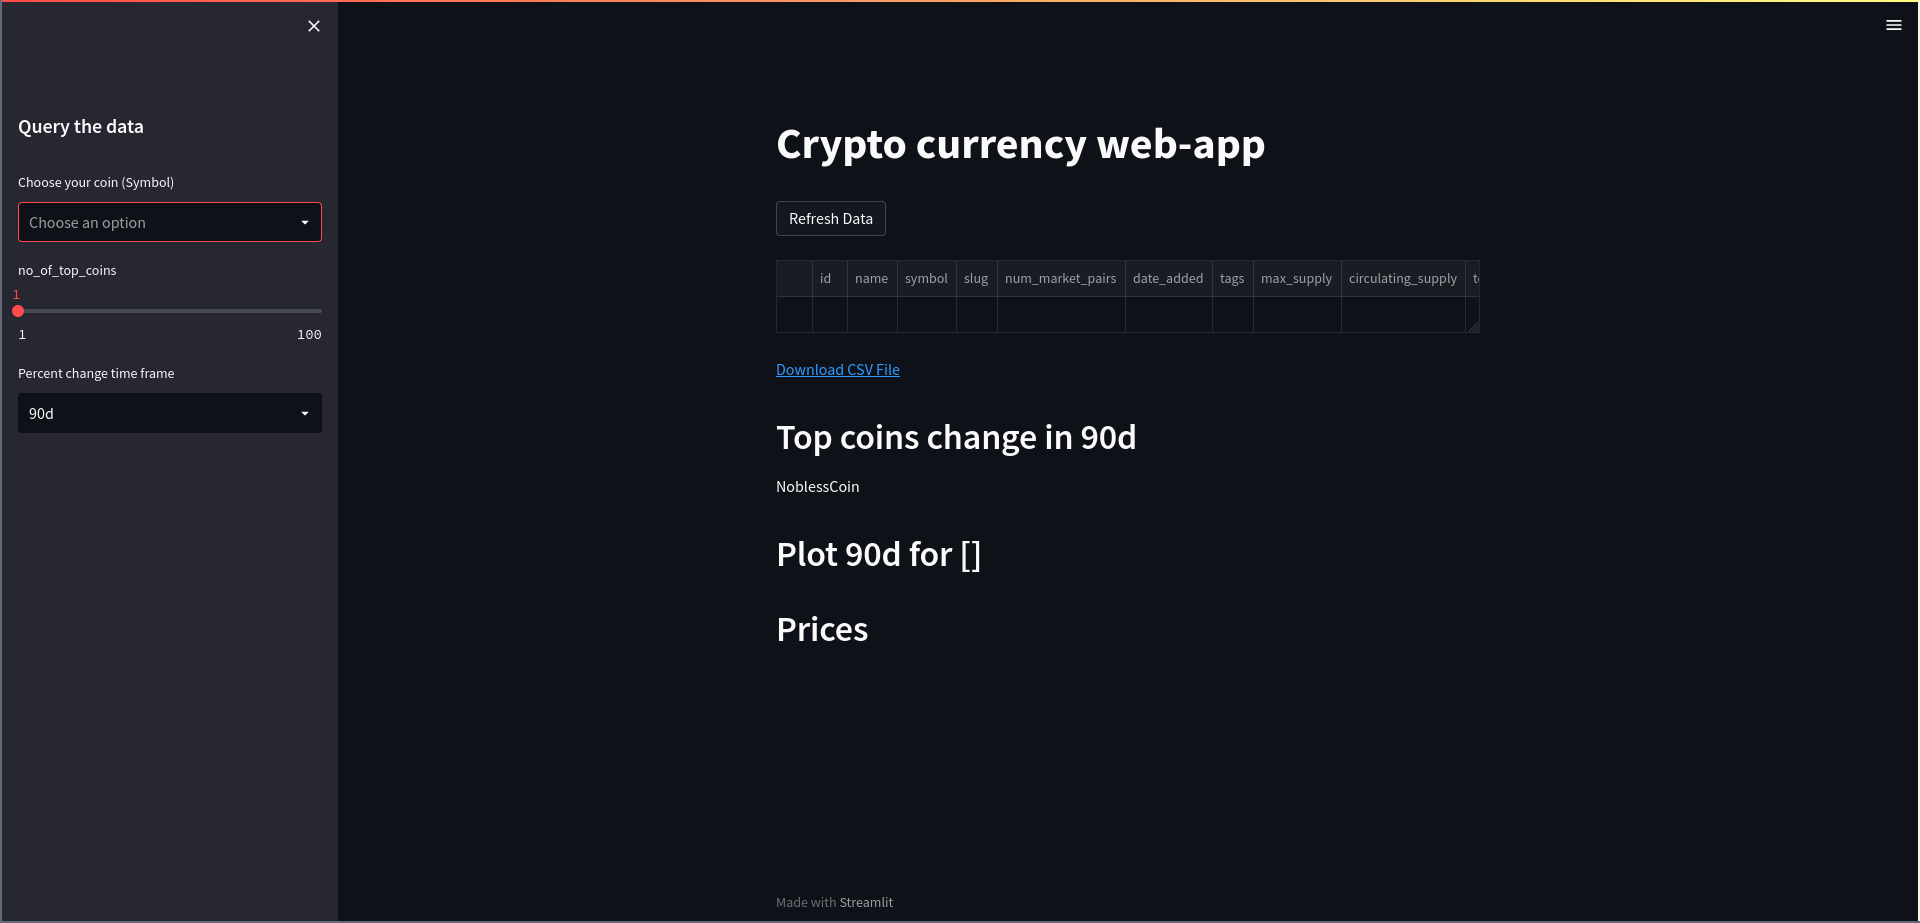
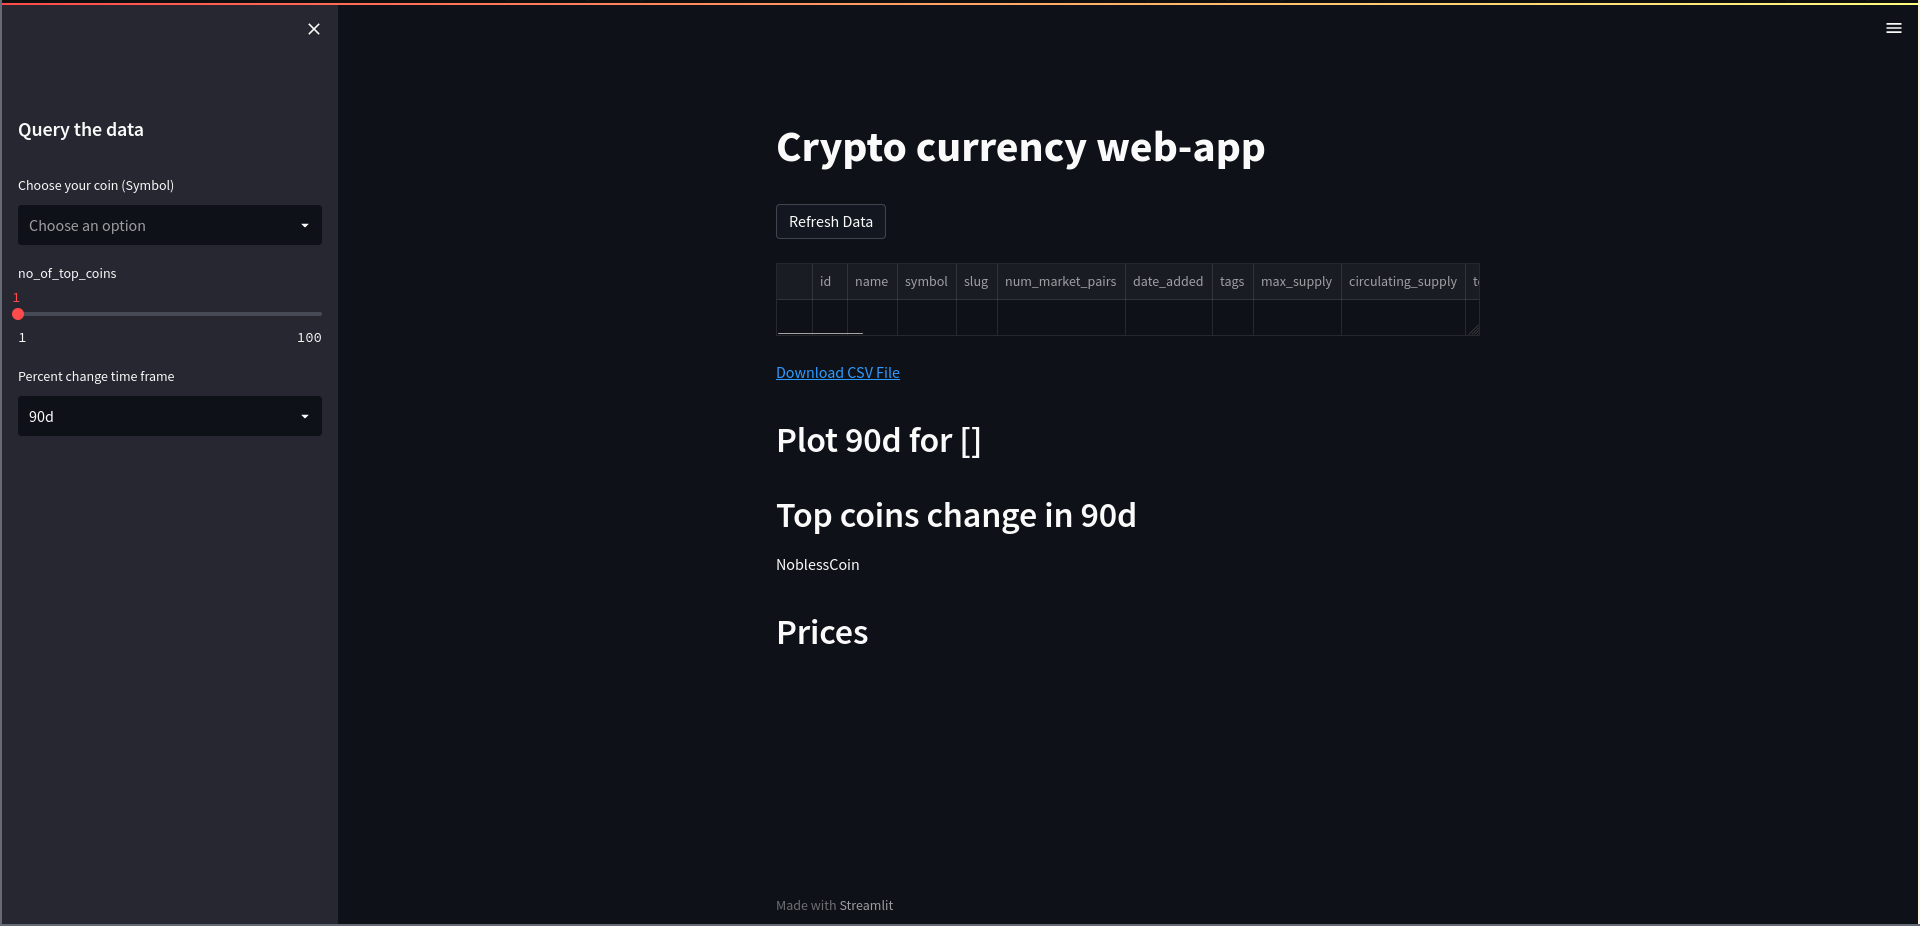
%change second item

diff --git a/webapp.py b/webapp.py
@@ -56,9 +56,6 @@ st.markdown(filedownload(df_coins), unsafe_allow_html=True)
 percent_timeframe = st.sidebar.selectbox("Percent change time frame",
                                     ["90d","60d","30d","7d","24h","1h"])
 
-#Top coins change in time_frame selected
-st.write(f"## Top coins change in {percent_timeframe}")
-
 #Preparing variables for top values based on percent_timeframe
 df_top_change = pd.concat([df.name, #Df with name and change
     df.quote_USD_percent_change_90d, 
@@ -69,30 +66,6 @@ df_top_change = pd.concat([df.name, #Df with name and change
     df.quote_USD_percent_change_1h,
 ], axis=1)
 
-price = df_top_change["name"]
-price = price.to_string(index=False)
-price = price.split()
-
-top_coins = price[-no_of_top_coins:]
-#Finding the top values for each column
-if percent_timeframe == "90d" : 
-    df_top_change = df_top_change.sort_values(by=["quote_USD_percent_change_90d"], ascending=False)
-elif percent_timeframe == "60d" : 
-    df_top_change = df_top_change.sort_values(by=["quote_USD_percent_change_60d"], ascending=False)
-elif percent_timeframe == "30d" : 
-    df_top_change = df_top_change.sort_values(by=["quote_USD_percent_change_30d"], ascending=False)
-elif percent_timeframe == "7d" : 
-    df_top_change = df_top_change.sort_values(by=["quote_USD_percent_change_7d"], ascending=False)
-elif percent_timeframe == "24h" : 
-    df_top_change = df_top_change.sort_values(by=["quote_USD_percent_change_24h"], ascending=False)
-elif percent_timeframe == "1h" : 
-    df_top_change = df_top_change.sort_values(by=["quote_USD_percent_change_1h"], ascending=False)
-else : 
-    pass
-
-#Displaying the top values depending on the column selected
-for coins in top_coins : 
-    st.write(f"{coins}")
 
 #Preparing data for filtering according to percentage change
 df_change = pd.concat([df_coins.symbol,  
@@ -130,6 +103,34 @@ try :
 except: 
     pass
 
+#Top coins change in time_frame selected
+st.write(f"## Top coins change in {percent_timeframe}")
+
+price = df_top_change["name"]
+price = price.to_string(index=False)
+price = price.split()
+
+top_coins = price[-no_of_top_coins:]
+
+#Displaying the top values depending on the column selected
+for coins in top_coins : 
+    st.write(f"{coins}", end="")
+
+#Finding the top values for each column
+if percent_timeframe == "90d" : 
+    df_top_change = df_top_change.sort_values(by=["quote_USD_percent_change_90d"], ascending=False)
+elif percent_timeframe == "60d" : 
+    df_top_change = df_top_change.sort_values(by=["quote_USD_percent_change_60d"], ascending=False)
+elif percent_timeframe == "30d" : 
+    df_top_change = df_top_change.sort_values(by=["quote_USD_percent_change_30d"], ascending=False)
+elif percent_timeframe == "7d" : 
+    df_top_change = df_top_change.sort_values(by=["quote_USD_percent_change_7d"], ascending=False)
+elif percent_timeframe == "24h" : 
+    df_top_change = df_top_change.sort_values(by=["quote_USD_percent_change_24h"], ascending=False)
+elif percent_timeframe == "1h" : 
+    df_top_change = df_top_change.sort_values(by=["quote_USD_percent_change_1h"], ascending=False)
+else : 
+    pass
 
 # Price displayer
 st.write("## Prices")
